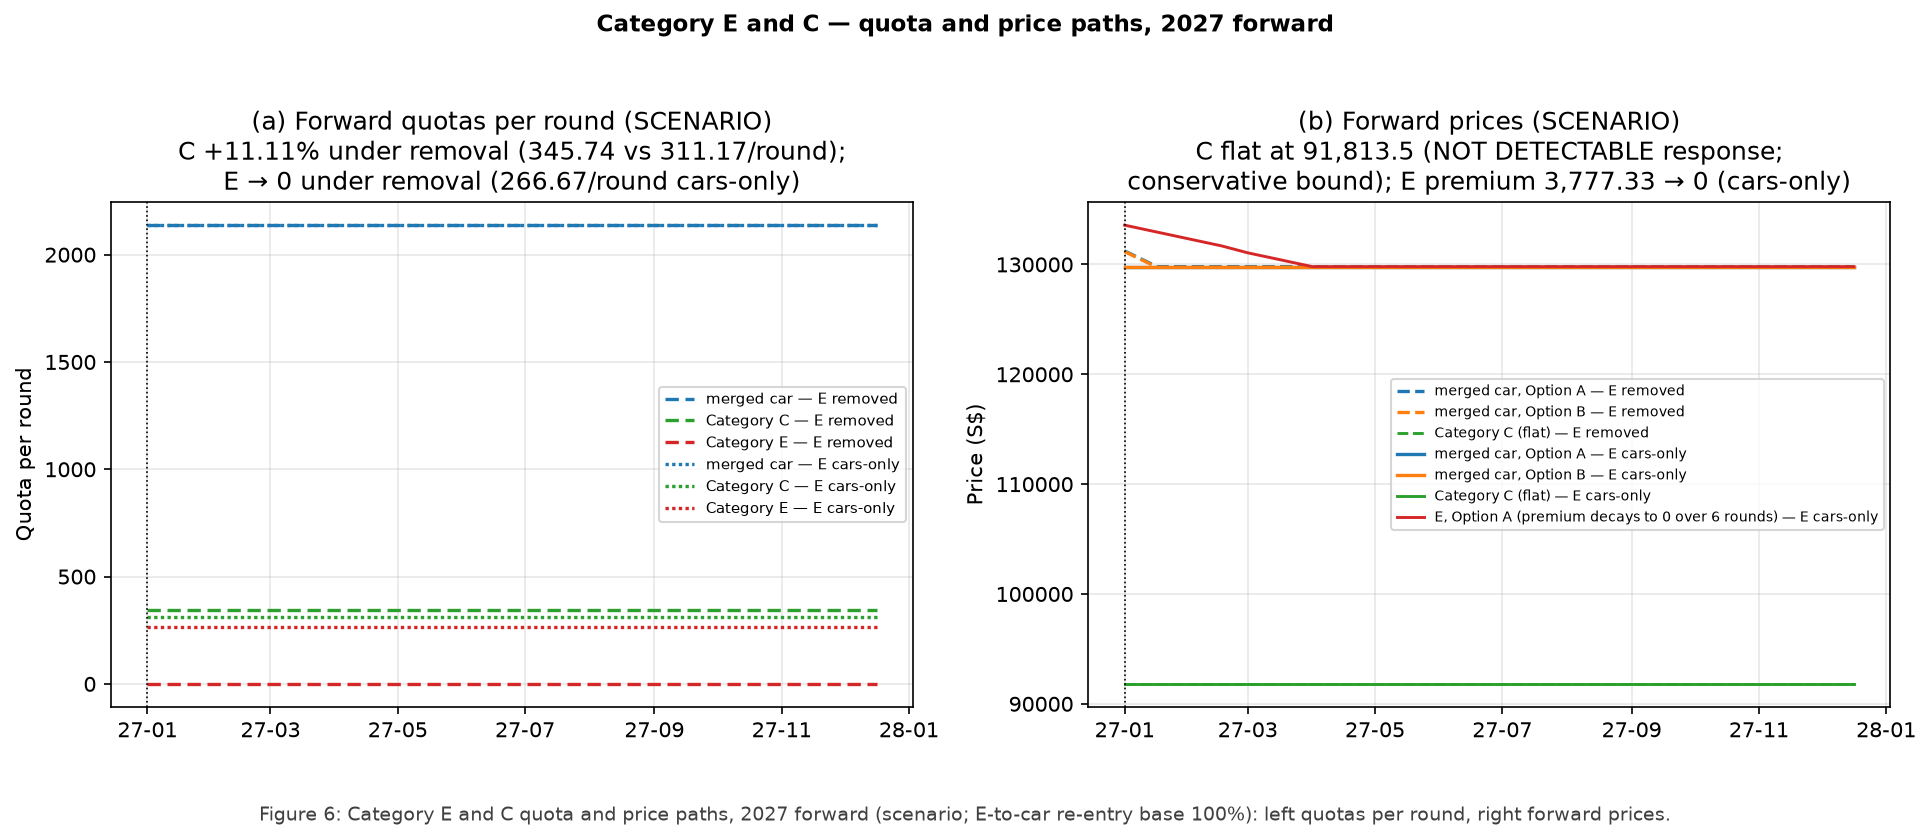
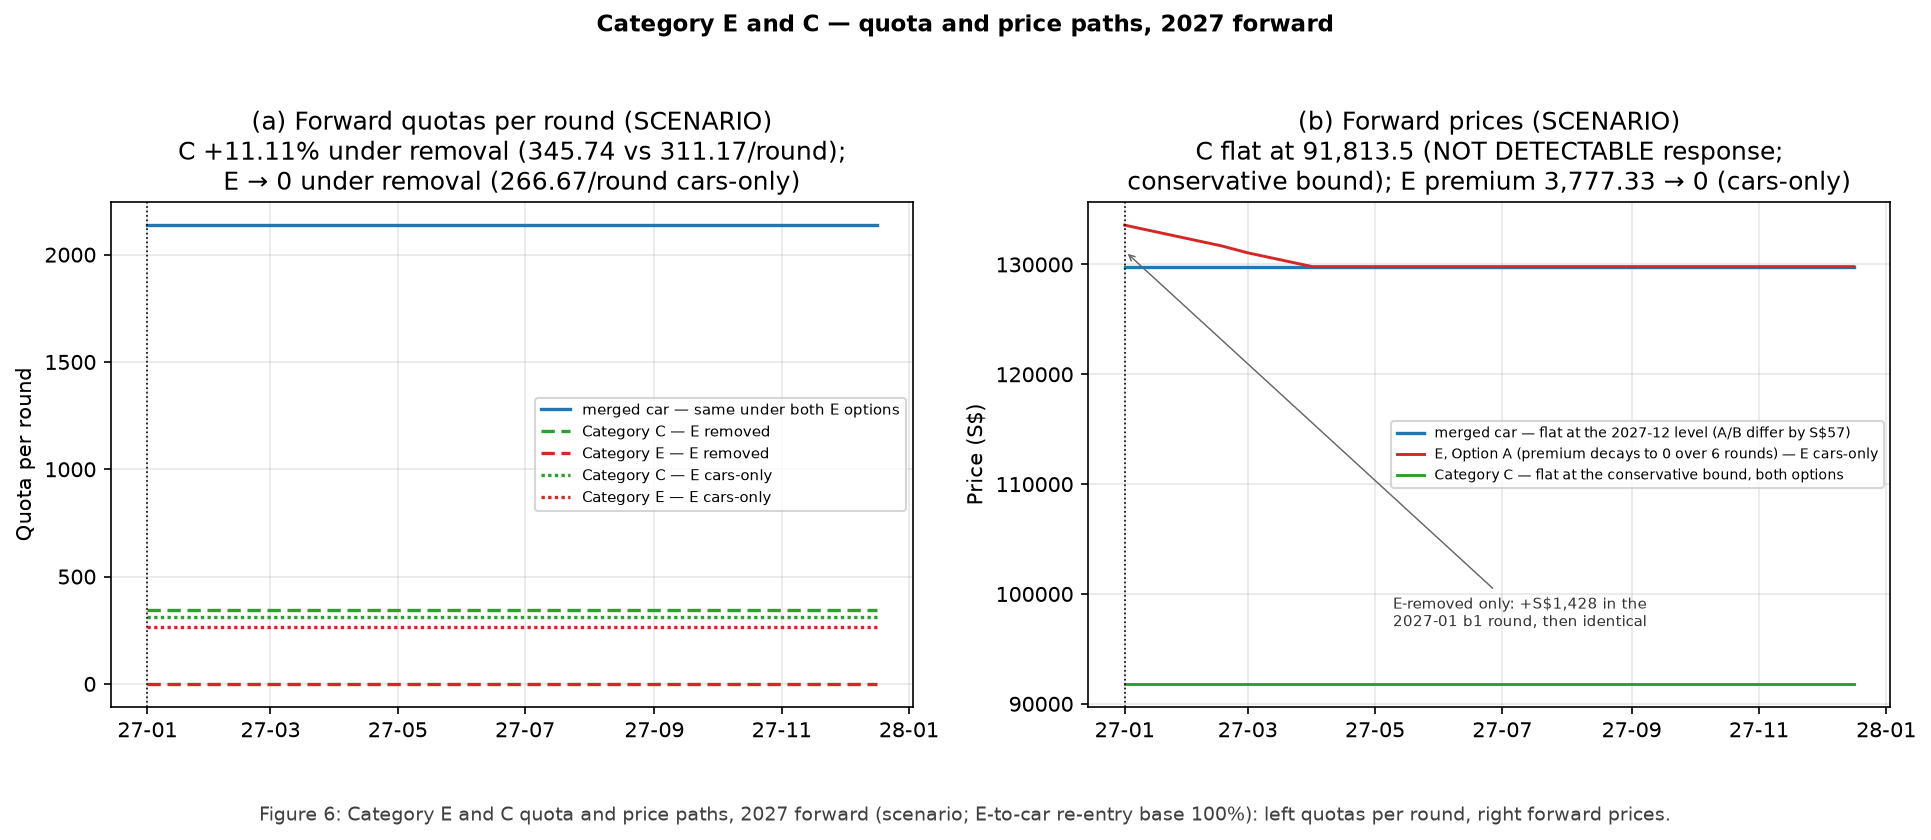
Figure 6 (E/C quota & price paths): fix legend/line mismatches - (a) merged car quota is identical under both E options (2,137.5/round, verified), so plot it as one line instead of a dotted line hidden under the dashed one; caption "solid = E cars-only" corrected to "dotted". (b) merged-car prices a

diff --git a/src/make_charts.py b/src/make_charts.py
@@ -405,32 +405,47 @@ def fig7():
     ixR, rem = load("tables/ec_scenario_E_removed.csv")
     ixC, cco = load("tables/ec_scenario_E_cars_only.csv")
     fig, (ax1, ax2) = plt.subplots(1, 2, figsize=(13, 5.5))
-    # quotas
-    for ax, (ix, data, tag, ls) in ((ax1, (ixR, rem, "E removed", (0, (4, 2)))), (ax1, (ixC, cco, "E cars-only", (0, (1, 1))))):
-        for cat, col, lab in (("merged_car", "#1f77b4", "merged car"), ("C", "#2ca02c", "Category C"), ("E", "#d62728", "Category E")):
+    # quotas: the merged car quota is identical under both E options
+    # (2,137.5/round in both scenario tables), so plot it once; C and E
+    # differ by option (dashed = E removed, dotted = E cars-only)
+    mcq = [(d(r[ixR["month"]], r[ixR["bidding_no"]]), f(r[ixR["quota"]])) for r in rem.get("merged_car", []) if f(r[ixR["quota"]]) is not None]
+    if mcq:
+        ax1.plot([t for t, _ in mcq], [v for _, v in mcq], "-", color="#1f77b4", lw=1.6,
+                 label="merged car — same under both E options")
+    for ix, data, tag, ls in ((ixR, rem, "E removed", (0, (4, 2))), (ixC, cco, "E cars-only", (0, (1, 1)))):
+        for cat, col, lab in (("C", "#2ca02c", "Category C"), ("E", "#d62728", "Category E")):
             pts = [(d(r[ix["month"]], r[ix["bidding_no"]]), f(r[ix["quota"]])) for r in data.get(cat, []) if f(r[ix["quota"]]) is not None]
             if pts:
-                ax.plot([t for t, _ in pts], [v for _, v in pts], linestyle=ls, color=col, lw=1.6, label=f"{lab} — {tag}")
+                ax1.plot([t for t, _ in pts], [v for _, v in pts], linestyle=ls, color=col, lw=1.6, label=f"{lab} — {tag}")
     ax1.axvline(dt.datetime(2027, 1, 1), color="k", lw=0.8, ls=":")
     ax1.set_title("(a) Forward quotas per round (SCENARIO)\nC +11.11% under removal (345.74 vs 311.17/round);\nE → 0 under removal (266.67/round cars-only)")
     ax1.set_ylabel("Quota per round")
     ax1.xaxis.set_major_formatter(mdates.DateFormatter("%y-%m"))
     ax1.legend(fontsize=7)
     ax1.grid(alpha=0.3)
-    # prices
-    for ax, (ix, data, tag, colstyle) in ((ax2, (ixR, rem, "E removed", "--")), (ax2, (ixC, cco, "E cars-only", "-"))):
-        mc = [(d(r[ix["month"]], r[ix["bidding_no"]]),
-               f(r[ix["withfee_price_optionA_base"]]) + (f(r[ix["e_shift_price_effect_sgd"]]) or 0)) for r in data["merged_car"]]
-        mcB = [(d(r[ix["month"]], r[ix["bidding_no"]]),
-                f(r[ix["withfee_price_optionB_base"]]) + (f(r[ix["e_shift_price_effect_sgd"]]) or 0)) for r in data["merged_car"]]
-        ax.plot([t for t, _ in mc], [v for _, v in mc], linestyle=colstyle, color="#1f77b4", lw=1.6, label=f"merged car, Option A — {tag}")
-        ax.plot([t for t, _ in mcB], [v for _, v in mcB], linestyle=colstyle, color="#ff7f0e", lw=1.6, label=f"merged car, Option B — {tag}")
-        Cpts = [(d(r[ix["month"]], r[ix["bidding_no"]]), f(r[ix["price"]])) for r in data["C"] if f(r[ix["price"]]) is not None]
-        if Cpts:
-            ax.plot([t for t, _ in Cpts], [v for _, v in Cpts], linestyle=colstyle, color="#2ca02c", lw=1.4, label=f"Category C (flat) — {tag}")
-        Epts = [(d(r[ix["month"]], r[ix["bidding_no"]]), f(r[ix["e_price_optionA"]])) for r in data["E"] if f(r[ix["e_price_optionA"]])]
-        if Epts:
-            ax.plot([t for t, _ in Epts], [v for _, v in Epts], linestyle=colstyle, color="#d62728", lw=1.4, label=f"E, Option A (premium decays to 0 over 6 rounds) — {tag}")
+    # prices: merged-car prices are identical under both E options except
+    # the one-round 2027-01 pulse (A +1,428.14 / B +1,428.13) — invisible at
+    # this axis scale — so plot one line and annotate the pulse. A and B
+    # differ by S$57 (129,800.16 vs 129,743.03) — indistinguishable here.
+    # C's price is flat at the same conservative bound under both options
+    # (identical paths), so one line. The E price exists only under cars-only.
+    mc = [(d(r[ixC["month"]], r[ixC["bidding_no"]]),
+           (f(r[ixC["withfee_price_optionA_base"]]) or 0) + (f(r[ixC["e_shift_price_effect_sgd"]]) or 0)) for r in cco["merged_car"]]
+    ax2.plot([t for t, _ in mc], [v for _, v in mc], "-", color="#1f77b4", lw=1.6,
+             label="merged car — flat at the 2027-12 level (A/B differ by S$57)")
+    Epts = [(d(r[ixC["month"]], r[ixC["bidding_no"]]), f(r[ixC["e_price_optionA"]])) for r in cco["E"] if f(r[ixC["e_price_optionA"]])]
+    if Epts:
+        ax2.plot([t for t, _ in Epts], [v for _, v in Epts], "-", color="#d62728", lw=1.4,
+                 label="E, Option A (premium decays to 0 over 6 rounds) — E cars-only")
+    Cp = [(d(r[ixC["month"]], r[ixC["bidding_no"]]), f(r[ixC["price"]])) for r in cco.get("C", []) if f(r[ixC["price"]]) is not None]
+    if Cp:
+        ax2.plot([t for t, _ in Cp], [v for _, v in Cp], "-", color="#2ca02c", lw=1.4,
+                 label="Category C — flat at the conservative bound, both options")
+    ax2.annotate("E-removed only: +S$1,428 in the\n2027-01 b1 round, then identical",
+                 xy=(dt.datetime(2027, 1, 1), 131228),
+                 xytext=(0.38, 0.16), textcoords="axes fraction",
+                 fontsize=7, color="#333",
+                 arrowprops=dict(arrowstyle="->", lw=0.7, color="#666"))
     ax2.axvline(dt.datetime(2027, 1, 1), color="k", lw=0.8, ls=":")
     ax2.set_title("(b) Forward prices (SCENARIO)\nC flat at 91,813.5 (NOT DETECTABLE response;\nconservative bound); E premium 3,777.33 → 0 (cars-only)")
     ax2.set_ylabel("Price (S$)")

diff --git a/README.md b/README.md
@@ -511,12 +511,20 @@ forward prices.
 
 ![Category E and C — quota and price paths, 2027 forward](charts/ec_quota_price_paths.png)
 
-*Left (a): forward quotas per round under both E options — dashed = E
-removed, solid = E cars-only; C (green) gains 11.11% under removal, E
-(red) goes to zero under removal. Right (b): forward prices — merged car
-(blue/orange, Option A/B), C (green, flat at the conservative bound),
-E (red, premium decaying to zero under cars-only). The dotted vertical
-line marks the 2027-01-01 regime start.*
+*Left (a): forward quotas per round. Category C (green) and E (red) are
+shown under both E options (dashed = E removed, dotted = E cars-only):
+under removal, C gains 11.11% (311.17 → 345.74/round) and E goes to
+zero, while under cars-only both keep their current quotas. The merged
+car quota (blue, 2,137.5/round) is the same under both options — a
+single line. Right (b): forward prices — merged car (blue) is flat at
+the 2027-12 level (Option A S$129,800.16, Option B S$129,743.03 — S$57
+apart, indistinguishable at this scale) and is the same under both E
+options except for a one-round +S$1,428 pulse in 2027-01 under removal
+(annotated), so it is one line. The E price (red) exists only under
+cars-only; its premium decays to zero over six rounds, converging on the
+merged price. C (green) is held flat at the same conservative bound
+under both options — a single line. The dotted vertical line marks the
+2027-01-01 regime start.*
 
 ### 4.8 Unintended consequences: boundary gaming and classification distortion
 
